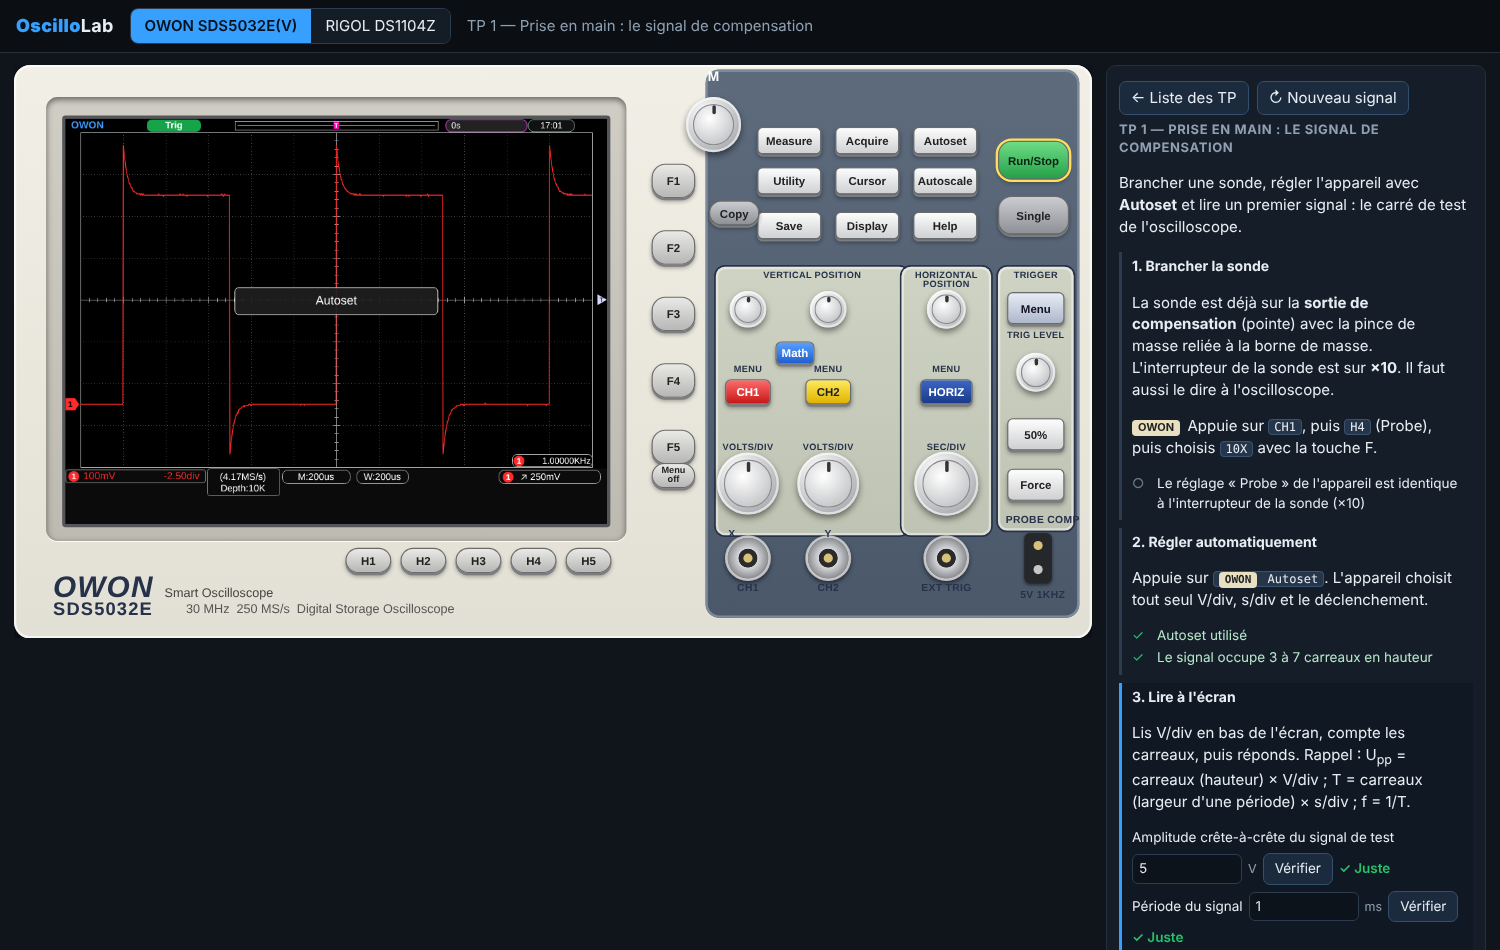
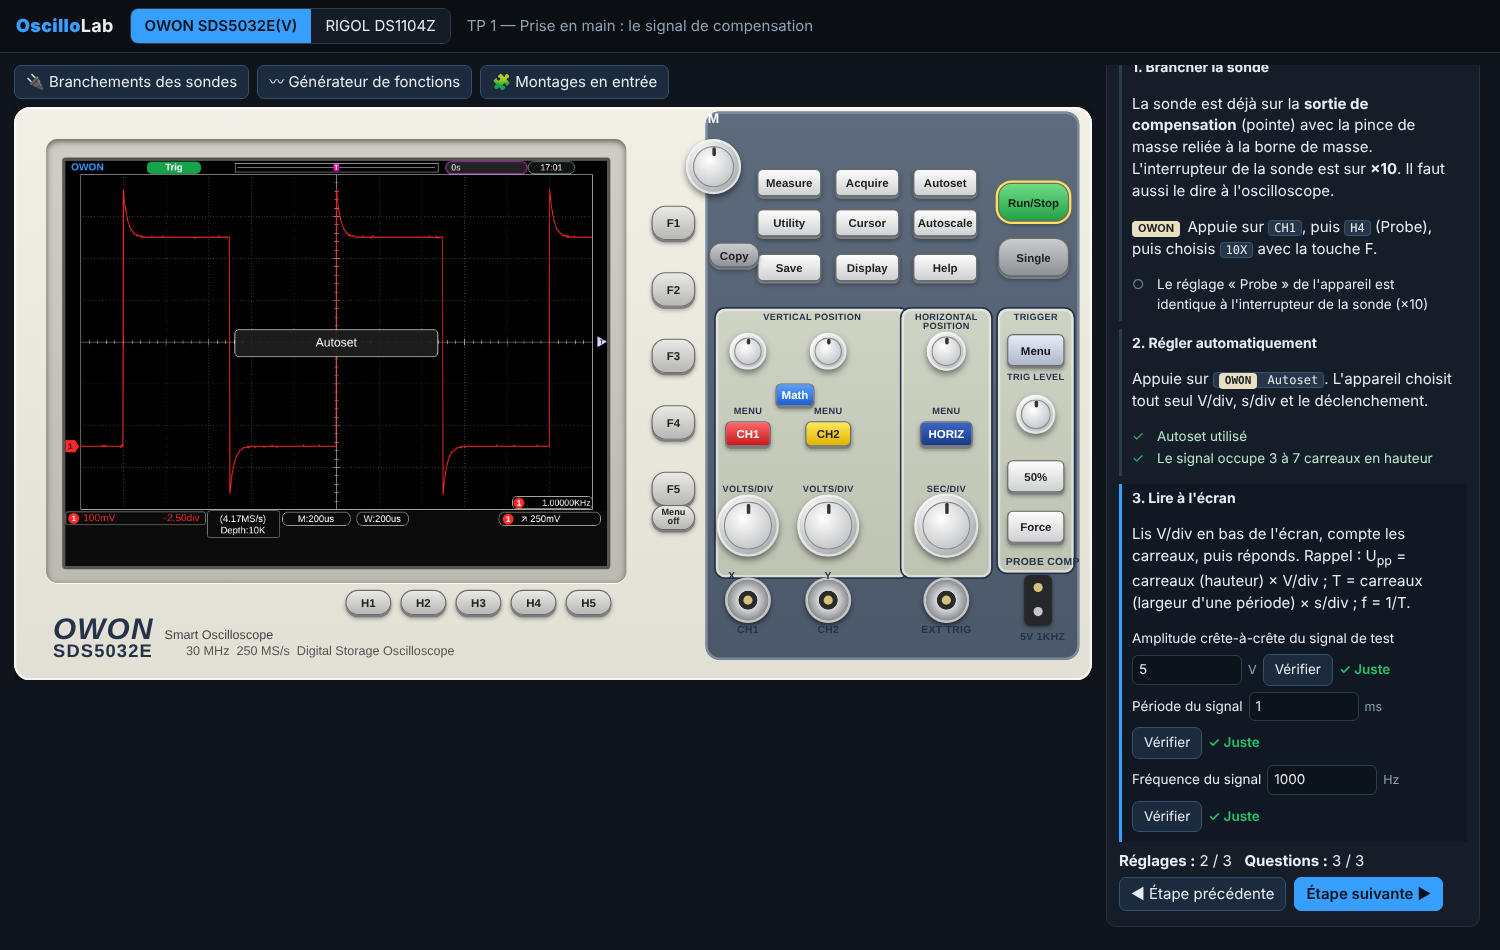
Paillasse en menus déroulants au-dessus de l'oscilloscope (branchements, générateur, montages), fenêtres déplaçables
Claude-Session: https://claude.ai/code/session_018Ln2Xo12prChdSPrkdSn9D

Changed region(s): [[0.0, 0.0611, 0.9813, 1.0], [0.1533, 0.2747, 0.3067, 0.3968]]

diff --git a/dist/oscillolab.html b/dist/oscillolab.html
@@ -105,13 +105,23 @@ kbd { background:#26364a; border-radius:4px; padding:0 5px; border:1px solid #3b
   #side { height: calc(100vh - 76px); overflow-y: auto; padding-right: 6px; }
 }
 
+/* menus de la paillasse au-dessus de l'oscilloscope */
+#benchBar { display:flex; gap:8px; margin-bottom:8px; flex-wrap:wrap; }
+#benchPop { position:relative; height:0; z-index:20; }
+#benchPop > div { position:absolute; left:0; top:0; width:440px; max-width:96vw; max-height:calc(100vh - 150px); overflow-y:auto; box-shadow:0 12px 30px #000c; border-radius:10px; }
+#benchPop > div .card { margin:0; border-color:#37a0ff; }
+#benchPop h3 { cursor:grab; user-select:none; touch-action:none; }
+#benchPop .seg { flex-wrap:wrap; } #benchPop .seg button { padding:6px 9px; font-size:13px; }
+
 </style>
 </head><body>
 <header class="top"><h1><b>Oscillo</b>Lab</h1>
 <div class="seg" id="devSeg"><button data-d="owon" class="on">OWON SDS5032E(V)</button><button data-d="rigol">RIGOL DS1104Z</button></div>
 <span id="tpName" style="color:#8fa0b3"></span></header>
-<main><div><div id="scopeWrap"><div id="scopeBox"></div></div></div>
-<aside id="side"><div id="tpPane"></div><div id="benchPane"></div></aside></main>
+<main><div><div id="benchBar"><button class="btn" data-p="wire">🔌 Branchements des sondes</button><button class="btn" data-p="gbf">〰 Générateur de fonctions</button><button class="btn" data-p="mont">🧩 Montages en entrée</button></div>
+<div id="benchPop"><div data-p="wire"></div><div data-p="gbf"></div><div data-p="mont"></div></div>
+<div id="scopeWrap"><div id="scopeBox"></div></div></div>
+<aside id="side"><div id="tpPane"></div></aside></main>
 <script>
 /* util.js — outils communs (navigateur et Node) */
 (function (g) {
@@ -1509,7 +1519,7 @@ OL.numField = numField;
 
 OL.Bench = function (parent, App, opts) {
   const B = this; opts = opts || {}; B.App = App;
-  B.root = E('div', '', parent);
+  B.root = parent; B.pw = parent.querySelector('[data-p=wire]'); B.pg = parent.querySelector('[data-p=gbf]'); B.pm = parent.querySelector('[data-p=mont]');
   B.refreshers = [];
   /* options de branchement */
   B.nodeList = () => {
@@ -1528,8 +1538,8 @@ OL.Bench = function (parent, App, opts) {
 };
 OL.Bench.prototype.build = function () {
   const B = this, App = B.App, P = App.scope.P, W = App.scope.bench;
-  B.root.innerHTML = '';
-  const c1 = E('div', 'card', B.root); E('h3', '', c1, null, 'Branchements des sondes');
+  B.pw.innerHTML = ''; B.pg.innerHTML = ''; B.pm.innerHTML = '';
+  const c1 = E('div', 'card', B.pw); E('h3', '', c1, null, '⠿ '+'Branchements des sondes' + ' <span class="hint" style="float:right">déplaçable · Échap pour fermer</span>');
   for (let i = 0; i < P.nch; i++) {
     const row = E('div', 'row', c1); const lab = E('label', '', row, null, '<span class="chdot" style="background:' + App.ui.colors[i] + '"></span>' + P.chNames[i]);
     const sel = E('select', '', row); B.nodeList().forEach(([v, t]) => { const o = E('option', '', sel, null, t); o.value = v; });
@@ -1544,7 +1554,7 @@ OL.Bench.prototype.build = function () {
     upd(); B.refreshers.push(() => { sel.value = W.ch[i].node ? W.ch[i].node.src.kind + '.' + W.ch[i].node.key : ''; upd(); gc.checked = W.ch[i].ground !== false; sl.value = W.ch[i].trim; });
   }
   E('div', 'hint', c1, null, 'L\'interrupteur de la sonde (×1 / ×10) et le réglage « Probe » du menu de l\'oscilloscope doivent toujours être identiques.');
-  const c2 = E('div', 'card', B.root); E('h3', '', c2, null, 'Générateur de fonctions');
+  const c2 = E('div', 'card', B.pg); E('h3', '', c2, null, '⠿ '+'Générateur de fonctions' + ' <span class="hint" style="float:right">déplaçable · Échap pour fermer</span>');
   const gbf = App.bench.gbf, Hz = [['Hz', 1], ['kHz', 1e3], ['MHz', 1e6]], Vv = [['V', 1], ['mV', 1e-3]];
   const shp = E('div', 'row', c2); const sg = E('div', 'seg', shp);
   [['sine', '∿ Sinus'], ['square', '⊓ Carré'], ['triangle', '△ Triangle'], ['ramp', '◿ Rampe']].forEach(([k, t]) => { const b = E('button', '', sg, null, t); b.addEventListener('click', () => { gbf.shape = k; sync(); }); b.dataset.k = k; });
@@ -1552,7 +1562,7 @@ OL.Bench.prototype.build = function () {
   sync();
   const rows = [numField(c2, 'Fréquence', () => gbf.freq, v => { gbf.freq = Math.max(0.01, v); }, Hz), numField(c2, 'Amplitude (crête-crête)', () => gbf.amp, v => { gbf.amp = Math.max(0, v); }, Vv), numField(c2, 'Offset', () => gbf.offset, v => { gbf.offset = v; }, Vv), numField(c2, 'Rapport cyclique', () => gbf.duty * 100, v => { gbf.duty = Math.min(0.95, Math.max(0.05, v / 100)); }, [['%', 1]])];
   B.refreshers.push(() => { sync(); rows.forEach(r => r.refresh()); });
-  const c3 = E('div', 'card', B.root); E('h3', '', c3, null, 'Montages');
+  const c3 = E('div', 'card', B.pm); E('h3', '', c3, null, '⠿ '+'Montages' + ' <span class="hint" style="float:right">déplaçable · Échap pour fermer</span>');
   const mk = (title, f) => { const d = E('details', 'mont', c3); E('summary', '', d, null, title); const b = E('div', '', d); f(b); return d; };
   const bb = App.bench;
   const R = [['Ω', 1], ['kΩ', 1e3], ['MΩ', 1e6]], Cc = [['nF', 1e-9], ['µF', 1e-6], ['mF', 1e-3], ['pF', 1e-12]].sort((a, b) => a[1] - b[1]);
@@ -1946,14 +1956,13 @@ App.build = function (dev, tp, seed) {
   else { wiring.ch[0].node = { src: App.bench.comp, key: 'out' }; st.ch[0].probe = 10; st.ch[0].vIdx = OL.nearest(P.vdivs, 0.1); }
   document.body.className = 'body-' + dev;
   document.querySelectorAll('#devSeg button').forEach(b => b.classList.toggle('on', b.dataset.d === dev));
-  const bp = $('#benchPane'); bp.innerHTML = '';
-  App.benchUI = new OL.Bench(bp, App, tp && tp.only ? { only: tp.only } : {});
+  App.benchUI = new OL.Bench($('#benchPop'), App, tp && tp.only ? { only: tp.only } : {});
   App.fit();
 };
 App.startTP = function (tp, seed) { App.build(App.dev, tp, seed); };
 App.free = function (keepList) { App.build(App.dev, null, 1); if (!keepList) App.tpui.list(); };
 App.fit = function () {
-  if (!App.ui) return; const w = $('#scopeWrap').clientWidth, bw = App.ui.box.offsetWidth, bh = App.ui.box.offsetHeight, k = Math.min(1.6, w / bw, g.innerWidth > 1250 ? (g.innerHeight - 90) / bh : 9);
+  if (!App.ui) return; const w = $('#scopeWrap').clientWidth, bw = App.ui.box.offsetWidth, bh = App.ui.box.offsetHeight, k = Math.min(1.6, w / bw, g.innerWidth > 1250 ? (g.innerHeight - 140) / bh : 9);
   $('#scopeBox').style.transform = 'scale(' + k + ')'; $('#scopeWrap').style.height = (bh * k) + 'px';
 };
 /* suivi de ce que l'élève a fait (pour la correction automatique) */
@@ -1971,6 +1980,15 @@ function loop(now) {
 g.addEventListener('DOMContentLoaded', () => {
   document.querySelectorAll('#devSeg button').forEach(b => b.addEventListener('click', () => { App.build(b.dataset.d, App.tp, App.seed); if (App.tp) App.tpui.render(); }));
   g.addEventListener('resize', () => App.fit());
+  const pop = $('#benchPop'); const show = k => { pop.classList.toggle('open', !!k); pop.querySelectorAll(':scope > div').forEach(d => { d.style.display = d.dataset.p === k ? '' : 'none'; }); document.querySelectorAll('#benchBar button').forEach(b => b.classList.toggle('pri', b.dataset.p === k)); App.pop = k; };
+  document.querySelectorAll('#benchBar button').forEach(b => b.addEventListener('click', e => { e.stopPropagation(); show(App.pop === b.dataset.p ? null : b.dataset.p); }));
+  /* fenêtre déplaçable (par son titre) : on peut la ranger sur le côté pour garder l'écran visible */
+  let drag = null;
+  pop.addEventListener('pointerdown', e => { const h = e.target.closest('h3'); if (!h) return; const box = h.closest('#benchPop > div'); drag = { box, x: e.clientX, y: e.clientY, l: box.offsetLeft, t: box.offsetTop }; h.setPointerCapture(e.pointerId); h.style.cursor = 'grabbing'; });
+  pop.addEventListener('pointermove', e => { if (!drag) return; drag.box.style.left = (drag.l + e.clientX - drag.x) + 'px'; drag.box.style.top = (drag.t + e.clientY - drag.y) + 'px'; });
+  pop.addEventListener('pointerup', () => { drag = null; });
+  document.addEventListener('keydown', e => { if (e.key === 'Escape') show(null); });
+  show(null);
   App.tpui = new OL.TPUI($('#tpPane'), App);
   App.build('owon', null, 1); requestAnimationFrame(loop);
 });

diff --git a/js/bench.js b/js/bench.js
@@ -21,7 +21,7 @@ OL.numField = numField;
 
 OL.Bench = function (parent, App, opts) {
   const B = this; opts = opts || {}; B.App = App;
-  B.root = E('div', '', parent);
+  B.root = parent; B.pw = parent.querySelector('[data-p=wire]'); B.pg = parent.querySelector('[data-p=gbf]'); B.pm = parent.querySelector('[data-p=mont]');
   B.refreshers = [];
   /* options de branchement */
   B.nodeList = () => {
@@ -40,8 +40,8 @@ OL.Bench = function (parent, App, opts) {
 };
 OL.Bench.prototype.build = function () {
   const B = this, App = B.App, P = App.scope.P, W = App.scope.bench;
-  B.root.innerHTML = '';
-  const c1 = E('div', 'card', B.root); E('h3', '', c1, null, 'Branchements des sondes');
+  B.pw.innerHTML = ''; B.pg.innerHTML = ''; B.pm.innerHTML = '';
+  const c1 = E('div', 'card', B.pw); E('h3', '', c1, null, '⠿ '+'Branchements des sondes' + ' <span class="hint" style="float:right">déplaçable · Échap pour fermer</span>');
   for (let i = 0; i < P.nch; i++) {
     const row = E('div', 'row', c1); const lab = E('label', '', row, null, '<span class="chdot" style="background:' + App.ui.colors[i] + '"></span>' + P.chNames[i]);
     const sel = E('select', '', row); B.nodeList().forEach(([v, t]) => { const o = E('option', '', sel, null, t); o.value = v; });
@@ -56,7 +56,7 @@ OL.Bench.prototype.build = function () {
     upd(); B.refreshers.push(() => { sel.value = W.ch[i].node ? W.ch[i].node.src.kind + '.' + W.ch[i].node.key : ''; upd(); gc.checked = W.ch[i].ground !== false; sl.value = W.ch[i].trim; });
   }
   E('div', 'hint', c1, null, 'L\'interrupteur de la sonde (×1 / ×10) et le réglage « Probe » du menu de l\'oscilloscope doivent toujours être identiques.');
-  const c2 = E('div', 'card', B.root); E('h3', '', c2, null, 'Générateur de fonctions');
+  const c2 = E('div', 'card', B.pg); E('h3', '', c2, null, '⠿ '+'Générateur de fonctions' + ' <span class="hint" style="float:right">déplaçable · Échap pour fermer</span>');
   const gbf = App.bench.gbf, Hz = [['Hz', 1], ['kHz', 1e3], ['MHz', 1e6]], Vv = [['V', 1], ['mV', 1e-3]];
   const shp = E('div', 'row', c2); const sg = E('div', 'seg', shp);
   [['sine', '∿ Sinus'], ['square', '⊓ Carré'], ['triangle', '△ Triangle'], ['ramp', '◿ Rampe']].forEach(([k, t]) => { const b = E('button', '', sg, null, t); b.addEventListener('click', () => { gbf.shape = k; sync(); }); b.dataset.k = k; });
@@ -64,7 +64,7 @@ OL.Bench.prototype.build = function () {
   sync();
   const rows = [numField(c2, 'Fréquence', () => gbf.freq, v => { gbf.freq = Math.max(0.01, v); }, Hz), numField(c2, 'Amplitude (crête-crête)', () => gbf.amp, v => { gbf.amp = Math.max(0, v); }, Vv), numField(c2, 'Offset', () => gbf.offset, v => { gbf.offset = v; }, Vv), numField(c2, 'Rapport cyclique', () => gbf.duty * 100, v => { gbf.duty = Math.min(0.95, Math.max(0.05, v / 100)); }, [['%', 1]])];
   B.refreshers.push(() => { sync(); rows.forEach(r => r.refresh()); });
-  const c3 = E('div', 'card', B.root); E('h3', '', c3, null, 'Montages');
+  const c3 = E('div', 'card', B.pm); E('h3', '', c3, null, '⠿ '+'Montages' + ' <span class="hint" style="float:right">déplaçable · Échap pour fermer</span>');
   const mk = (title, f) => { const d = E('details', 'mont', c3); E('summary', '', d, null, title); const b = E('div', '', d); f(b); return d; };
   const bb = App.bench;
   const R = [['Ω', 1], ['kΩ', 1e3], ['MΩ', 1e6]], Cc = [['nF', 1e-9], ['µF', 1e-6], ['mF', 1e-3], ['pF', 1e-12]].sort((a, b) => a[1] - b[1]);

diff --git a/js/app.js b/js/app.js
@@ -22,14 +22,13 @@ App.build = function (dev, tp, seed) {
   else { wiring.ch[0].node = { src: App.bench.comp, key: 'out' }; st.ch[0].probe = 10; st.ch[0].vIdx = OL.nearest(P.vdivs, 0.1); }
   document.body.className = 'body-' + dev;
   document.querySelectorAll('#devSeg button').forEach(b => b.classList.toggle('on', b.dataset.d === dev));
-  const bp = $('#benchPane'); bp.innerHTML = '';
-  App.benchUI = new OL.Bench(bp, App, tp && tp.only ? { only: tp.only } : {});
+  App.benchUI = new OL.Bench($('#benchPop'), App, tp && tp.only ? { only: tp.only } : {});
   App.fit();
 };
 App.startTP = function (tp, seed) { App.build(App.dev, tp, seed); };
 App.free = function (keepList) { App.build(App.dev, null, 1); if (!keepList) App.tpui.list(); };
 App.fit = function () {
-  if (!App.ui) return; const w = $('#scopeWrap').clientWidth, bw = App.ui.box.offsetWidth, bh = App.ui.box.offsetHeight, k = Math.min(1.6, w / bw, g.innerWidth > 1250 ? (g.innerHeight - 90) / bh : 9);
+  if (!App.ui) return; const w = $('#scopeWrap').clientWidth, bw = App.ui.box.offsetWidth, bh = App.ui.box.offsetHeight, k = Math.min(1.6, w / bw, g.innerWidth > 1250 ? (g.innerHeight - 140) / bh : 9);
   $('#scopeBox').style.transform = 'scale(' + k + ')'; $('#scopeWrap').style.height = (bh * k) + 'px';
 };
 /* suivi de ce que l'élève a fait (pour la correction automatique) */
@@ -47,6 +46,15 @@ function loop(now) {
 g.addEventListener('DOMContentLoaded', () => {
   document.querySelectorAll('#devSeg button').forEach(b => b.addEventListener('click', () => { App.build(b.dataset.d, App.tp, App.seed); if (App.tp) App.tpui.render(); }));
   g.addEventListener('resize', () => App.fit());
+  const pop = $('#benchPop'); const show = k => { pop.classList.toggle('open', !!k); pop.querySelectorAll(':scope > div').forEach(d => { d.style.display = d.dataset.p === k ? '' : 'none'; }); document.querySelectorAll('#benchBar button').forEach(b => b.classList.toggle('pri', b.dataset.p === k)); App.pop = k; };
+  document.querySelectorAll('#benchBar button').forEach(b => b.addEventListener('click', e => { e.stopPropagation(); show(App.pop === b.dataset.p ? null : b.dataset.p); }));
+  /* fenêtre déplaçable (par son titre) : on peut la ranger sur le côté pour garder l'écran visible */
+  let drag = null;
+  pop.addEventListener('pointerdown', e => { const h = e.target.closest('h3'); if (!h) return; const box = h.closest('#benchPop > div'); drag = { box, x: e.clientX, y: e.clientY, l: box.offsetLeft, t: box.offsetTop }; h.setPointerCapture(e.pointerId); h.style.cursor = 'grabbing'; });
+  pop.addEventListener('pointermove', e => { if (!drag) return; drag.box.style.left = (drag.l + e.clientX - drag.x) + 'px'; drag.box.style.top = (drag.t + e.clientY - drag.y) + 'px'; });
+  pop.addEventListener('pointerup', () => { drag = null; });
+  document.addEventListener('keydown', e => { if (e.key === 'Escape') show(null); });
+  show(null);
   App.tpui = new OL.TPUI($('#tpPane'), App);
   App.build('owon', null, 1); requestAnimationFrame(loop);
 });

diff --git a/index.html b/index.html
@@ -6,8 +6,10 @@
 <header class="top"><h1><b>Oscillo</b>Lab</h1>
 <div class="seg" id="devSeg"><button data-d="owon" class="on">OWON SDS5032E(V)</button><button data-d="rigol">RIGOL DS1104Z</button></div>
 <span id="tpName" style="color:#8fa0b3"></span></header>
-<main><div><div id="scopeWrap"><div id="scopeBox"></div></div></div>
-<aside id="side"><div id="tpPane"></div><div id="benchPane"></div></aside></main>
+<main><div><div id="benchBar"><button class="btn" data-p="wire">🔌 Branchements des sondes</button><button class="btn" data-p="gbf">〰 Générateur de fonctions</button><button class="btn" data-p="mont">🧩 Montages en entrée</button></div>
+<div id="benchPop"><div data-p="wire"></div><div data-p="gbf"></div><div data-p="mont"></div></div>
+<div id="scopeWrap"><div id="scopeBox"></div></div></div>
+<aside id="side"><div id="tpPane"></div></aside></main>
 <script src="js/util.js"></script><script src="js/signals.js"></script><script src="js/profiles.js"></script>
 <script src="js/scope.js"></script><script src="js/measure.js"></script><script src="js/autoset.js"></script>
 <script src="js/ui.js"></script><script src="js/draw.js"></script><script src="js/ui_owon.js"></script><script src="js/ui_rigol.js"></script>

diff --git a/css/style.css b/css/style.css
@@ -100,3 +100,11 @@ kbd { background:#26364a; border-radius:4px; padding:0 5px; border:1px solid #3b
   main > div:first-child { position: sticky; top: 0; align-self: start; }
   #side { height: calc(100vh - 76px); overflow-y: auto; padding-right: 6px; }
 }
+
+/* menus de la paillasse au-dessus de l'oscilloscope */
+#benchBar { display:flex; gap:8px; margin-bottom:8px; flex-wrap:wrap; }
+#benchPop { position:relative; height:0; z-index:20; }
+#benchPop > div { position:absolute; left:0; top:0; width:440px; max-width:96vw; max-height:calc(100vh - 150px); overflow-y:auto; box-shadow:0 12px 30px #000c; border-radius:10px; }
+#benchPop > div .card { margin:0; border-color:#37a0ff; }
+#benchPop h3 { cursor:grab; user-select:none; touch-action:none; }
+#benchPop .seg { flex-wrap:wrap; } #benchPop .seg button { padding:6px 9px; font-size:13px; }
